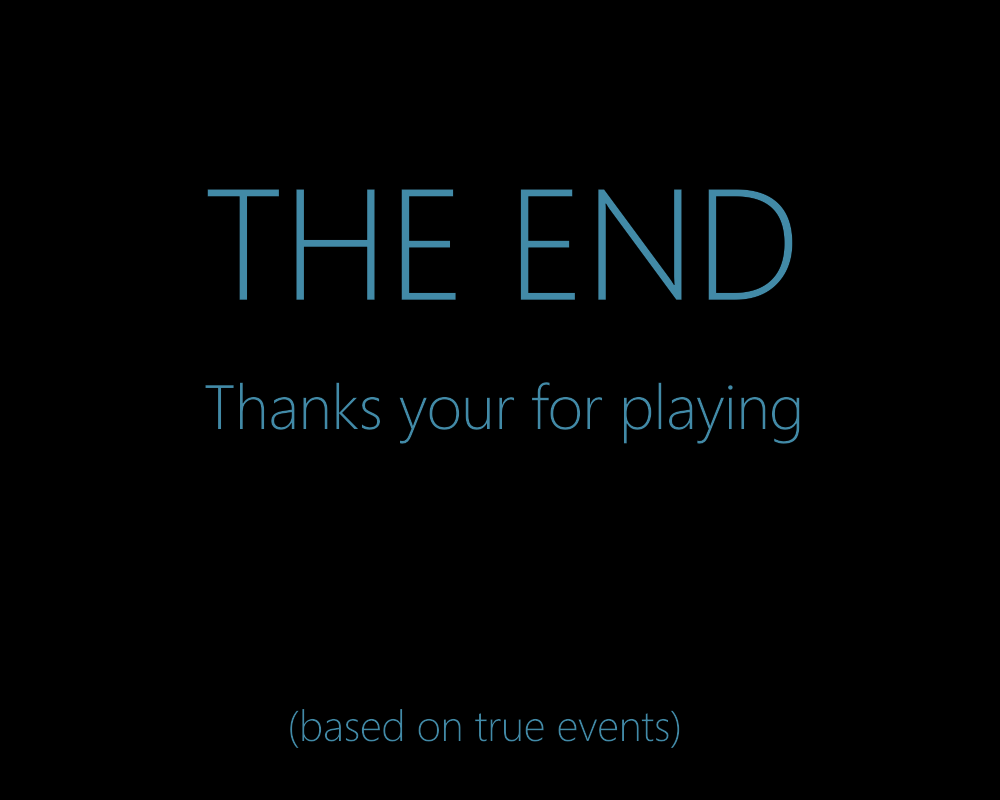
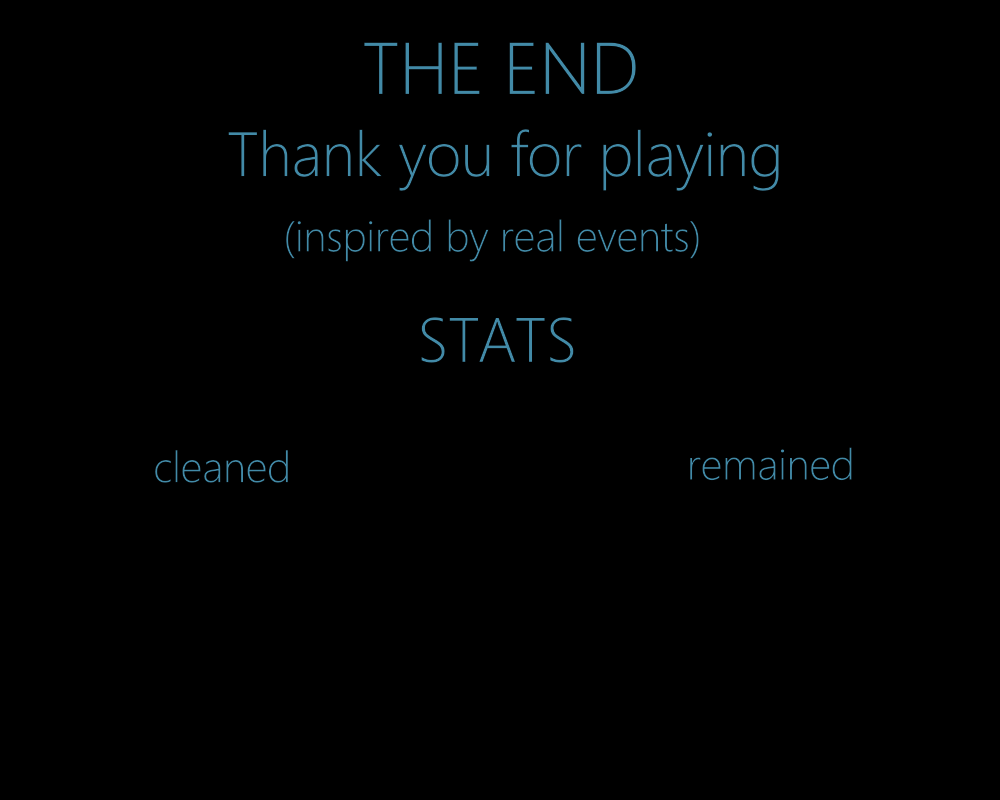
i'm think i'm done

diff --git a/ldjam-57-depths/src/game/Game.js b/ldjam-57-depths/src/game/Game.js
@@ -253,7 +253,7 @@ export default class Game {
   _createText(x, y, text, small) {
     const me = this;
 
-    Here._.add
+    return Here._.add
       .text(x, y, text, {
         color: "#428aa7",
         fontSize: !!small ? 24 : 36,
@@ -284,36 +284,36 @@ export default class Game {
 
     // wall
 
-    // me._garbage.createGarbageWall(700, 2300);
-    // me._garbage.createGarbageWall(700, 2400);
+    me._garbage.createGarbageWall(700, 2300);
+    me._garbage.createGarbageWall(700, 2400);
 
-    // me._garbage.createGarbageWall(100, 2800);
-    // me._garbage.createGarbageWall(200, 2800);
+    me._garbage.createGarbageWall(100, 2800);
+    me._garbage.createGarbageWall(200, 2800);
 
-    // me._garbage.createGarbageWall(1400, 2800);
-    // me._garbage.createGarbageWall(1400, 2900);
+    me._garbage.createGarbageWall(1400, 2800);
+    me._garbage.createGarbageWall(1400, 2900);
 
-    // me._garbage.createGarbageWall(100, 5250);
-    // me._garbage.createGarbageWall(200, 5250);
-    // me._garbage.createGarbageWall(300, 5250);
-    // me._garbage.createGarbageWall(400, 5250);
+    me._garbage.createGarbageWall(100, 5250);
+    me._garbage.createGarbageWall(200, 5250);
+    me._garbage.createGarbageWall(300, 5250);
+    me._garbage.createGarbageWall(400, 5250);
 
-    // me._garbage.createGarbageWall(950, 5600);
-    // me._garbage.createGarbageWall(950, 5700);
-    // me._garbage.createGarbageWall(1050, 5600);
-    // me._garbage.createGarbageWall(1050, 5700);
-    // me._garbage.createGarbageWall(1150, 5600);
-    // me._garbage.createGarbageWall(1150, 5700);
+    me._garbage.createGarbageWall(950, 5600);
+    me._garbage.createGarbageWall(950, 5700);
+    me._garbage.createGarbageWall(1050, 5600);
+    me._garbage.createGarbageWall(1050, 5700);
+    me._garbage.createGarbageWall(1150, 5600);
+    me._garbage.createGarbageWall(1150, 5700);
 
     // // garbage
 
     me._addDungeonGarbage(1125, 2350, 1875, 2550, 20, 10);
-    // me._addDungeonGarbage(1770, 2650, 1930, 3080, 20, 10);
-    // me._addDungeonGarbage(160, 2300, 600, 2750, 20, 10);
+    me._addDungeonGarbage(1770, 2650, 1930, 3080, 20, 10);
+    me._addDungeonGarbage(160, 2300, 600, 2750, 20, 10);
 
-    // me._addDungeonGarbage(140, 3300, 360, 4500, 20, 10);
+    me._addDungeonGarbage(140, 3300, 360, 4500, 20, 10);
 
-    // me._addDungeonGarbage(140, 5450, 715, 5850, 40, 15);
+    me._addDungeonGarbage(140, 5450, 715, 5850, 40, 15);
 
     // humpscare
     me._garbage.createStep(1800, 3600, 90, true);
@@ -409,15 +409,61 @@ export default class Game {
     Utils.debugLog("game over");
     MyStaticTime.isGameOver = true;
 
+    const depth = Consts.Depth.UI + 1000;
     Here._.add
       .image(0, 0, "gameOver")
       .setOrigin(0, 0)
-      .setDepth(Consts.Depth.UI + 1000)
+      .setDepth(depth - 1)
       .setScrollFactor(0);
 
     me._themeSound
       .setVolume(Config.Sound.MainMaxVolume)
       .setDetune(Config.Sound.MainMaxDetune);
     me._ambientSound.stop();
+
+    const textConfig = {
+      color: "#428aa7",
+      fontSize: 36,
+      fontFamily: "Arial Black",
+    };
+
+    const min = Math.floor(MyStaticTime.time / 60);
+    const sec = Math.floor(MyStaticTime.time % 60);
+    const secStr = sec < 10 ? "0" + sec : sec;
+
+    Here._.add
+      .text(400, 380, `Time: ${min}:${secStr}`, textConfig)
+      .setDepth(depth)
+      .setScrollFactor(0)
+      .setOrigin(0, 0);
+
+    const movable = me._garbage._movablePool.getChildren();
+    const remainedText =
+      `garbage: ${me._garbage._garbagePool.getLength()}\n` +
+      `spots: ${me._garbage._spotPool.getLength()}\n` +
+      `walls: ${me._garbage._wallPool.getLength()}\n` +
+      `bags: ${movable.filter((m) => !!m.isBag).length}\n` +
+      `buckets: ${
+        movable.filter((m) => !!m.isBucket && m.frame.name == 2).length
+      }`;
+
+    Here._.add
+      .text(650, 500, remainedText, textConfig)
+      .setDepth(depth)
+      .setScrollFactor(0)
+      .setOrigin(0, 0);
+
+    const cleanedText =
+      `garbage: ${MyStaticTime.garbage}\n` +
+      `spots: ${MyStaticTime.spots}\n` +
+      `walls: ${MyStaticTime.walls}\n` +
+      `bags: ${MyStaticTime.bags}\n` +
+      `buckets: ${MyStaticTime.buckets}`;
+
+    Here._.add
+      .text(110, 500, cleanedText, textConfig)
+      .setDepth(depth)
+      .setScrollFactor(0)
+      .setOrigin(0, 0);
   }
 }

diff --git a/ldjam-57-depths/src/game/Garbage.js b/ldjam-57-depths/src/game/Garbage.js
@@ -102,6 +102,7 @@ export default class Garbage {
     const me = this;
 
     wall.destroy();
+    MyStaticTime.walls += 1;
 
     const rect = new Phaser.Geom.Rectangle(
       wall.x,
@@ -118,24 +119,28 @@ export default class Garbage {
   removeGarbage(obj) {
     const me = this;
 
+    MyStaticTime.garbage += 1;
     obj.destroy();
   }
 
   removeSpot(spot) {
     const me = this;
 
+    MyStaticTime.spots += 1;
     spot.destroy();
   }
 
   removeBag(bag) {
     const me = this;
 
+    MyStaticTime.bags += 1;
     bag.destroy();
   }
 
   removeBucket(bucket) {
     const me = this;
 
+    if (bucket.frame.name == 2) MyStaticTime.buckets += 1;
     bucket.destroy();
   }
 
@@ -210,6 +215,7 @@ export default class Garbage {
   _createSpotInternal(x, y, frame, angle) {
     const me = this;
 
+    /** @type {Phaser.GameObjects.ima} */
     const spot = me._spotPool.create(x, y, "items", frame);
     spot.isSpot = true;
     spot.setDepth(Consts.Depth.Spot).setAngle(angle);

diff --git a/ldjam-57-depths/src/game/Config.js b/ldjam-57-depths/src/game/Config.js
@@ -1,6 +1,6 @@
 export default class Config {
   static Debug = {
-    Global: true,
+    Global: false,
     Log: true,
     ShowSceneLog: true,
     PlaySound: true,
@@ -11,12 +11,12 @@ export default class Config {
     Mana: 0,
 
     // start
-    // PlayerX: 605,
-    // PlayerY: 500,
+    PlayerX: 605,
+    PlayerY: 500,
 
     // dungeon
-    PlayerX: 1000,
-    PlayerY: 1800,
+    // PlayerX: 1000,
+    // PlayerY: 1800,
 
     //temp
     // PlayerX: 1700,
@@ -63,7 +63,7 @@ export default class Config {
     MainMaxDetune: 0,
     AmbientMinVolume: 0,
     AmbientMaxVolume: 0.75,
-    StartHeight: 2100,
+    StartHeight: 3000,
     StopHeight: 5300,
   };
 }

diff --git a/ldjam-57-depths/src/game/MyStaticTime.js b/ldjam-57-depths/src/game/MyStaticTime.js
@@ -1,4 +1,10 @@
 export default class MyStaticTime {
   static time = 0;
   static isGameOver = false;
+
+  static garbage = 0;
+  static spots = 0;
+  static walls = 0;
+  static bags = 0;
+  static buckets = 0;
 }
